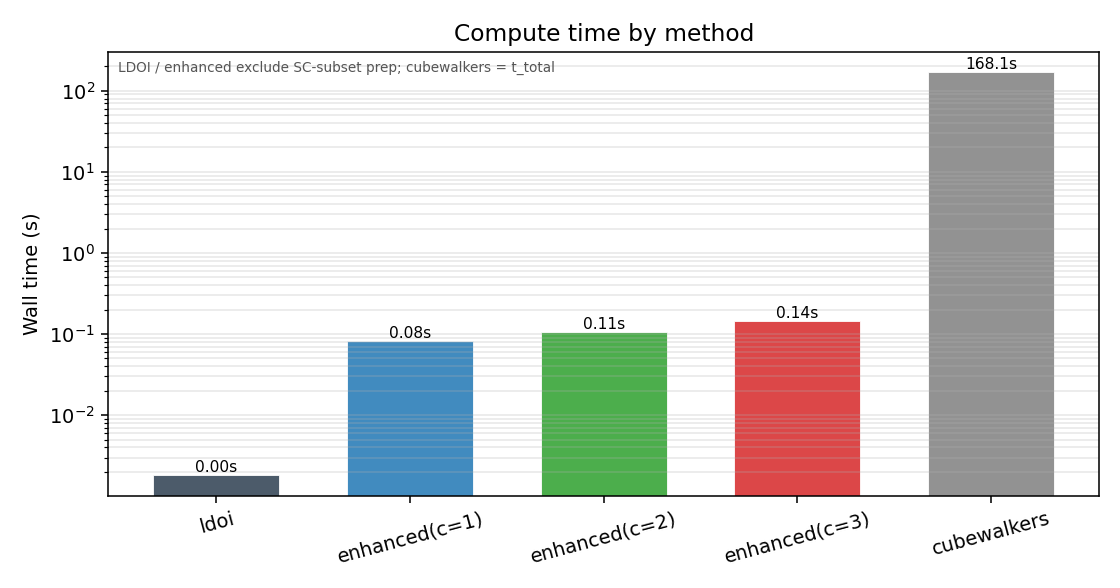
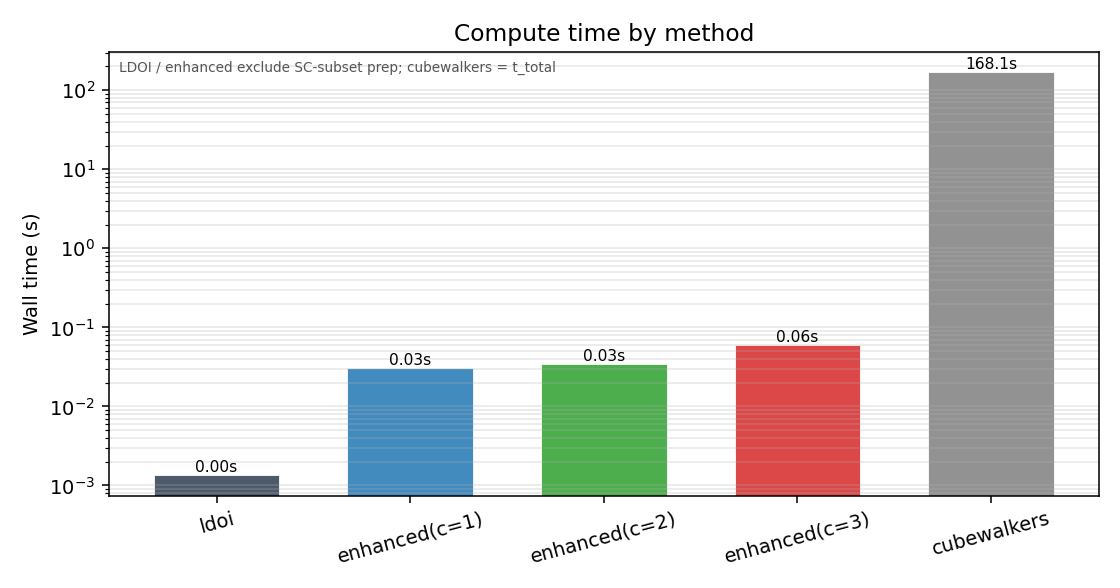
Optimize ldoi finding using already fixed nodes

diff --git a/src/boolmore/inference/prediction.py b/src/boolmore/inference/prediction.py
@@ -588,12 +588,14 @@ def _nav_from_ldoi_enhanced(
 
     Starts from plain LDOI (forced → 0/1, else 0.5). Free strongly
     connected subsets of size ``1..cutoff`` are probed over all ``2^k``
-    joint assignments (combined with ``perturbation``). Assignments that
-    self-sustain for every member contribute probability mass that can
-    move downstream free-node NAV away from 0.5. Assignments where any
-    member self-negates are treated as impossible and dropped from the
-    uniform measure (renormalize). A member that both self-sustains and
-    self-negates under the same closure raises ``ValueError``.
+    joint assignments. Probe LDOIs are seeded with the plain-LDOI fixed
+    set (equivalent to ``perturbation``, but skips rediscovering those
+    implications). Assignments that self-sustain for every member
+    contribute probability mass that can move downstream free-node NAV
+    away from 0.5. Assignments where any member self-negates are treated
+    as impossible and dropped from the uniform measure (renormalize). A
+    member that both self-sustains and self-negates under the same
+    closure raises ``ValueError``.
 
     Parameters
     ----------
@@ -634,7 +636,8 @@ def _nav_from_ldoi_enhanced(
             if not free_set.issuperset(component):
                 continue
             for state in product((0, 1), repeat=k):
-                seed = dict(perturbation)
+                # Warm-start from plain LDOI: LDOI(fixed ∪ S) == LDOI(pert ∪ S).
+                seed = dict(fixed)
                 seed.update(zip(component, state, strict=True))
                 closure = logical_domain_of_influence(primes, seed)
                 members = list(zip(component, state, strict=True))
